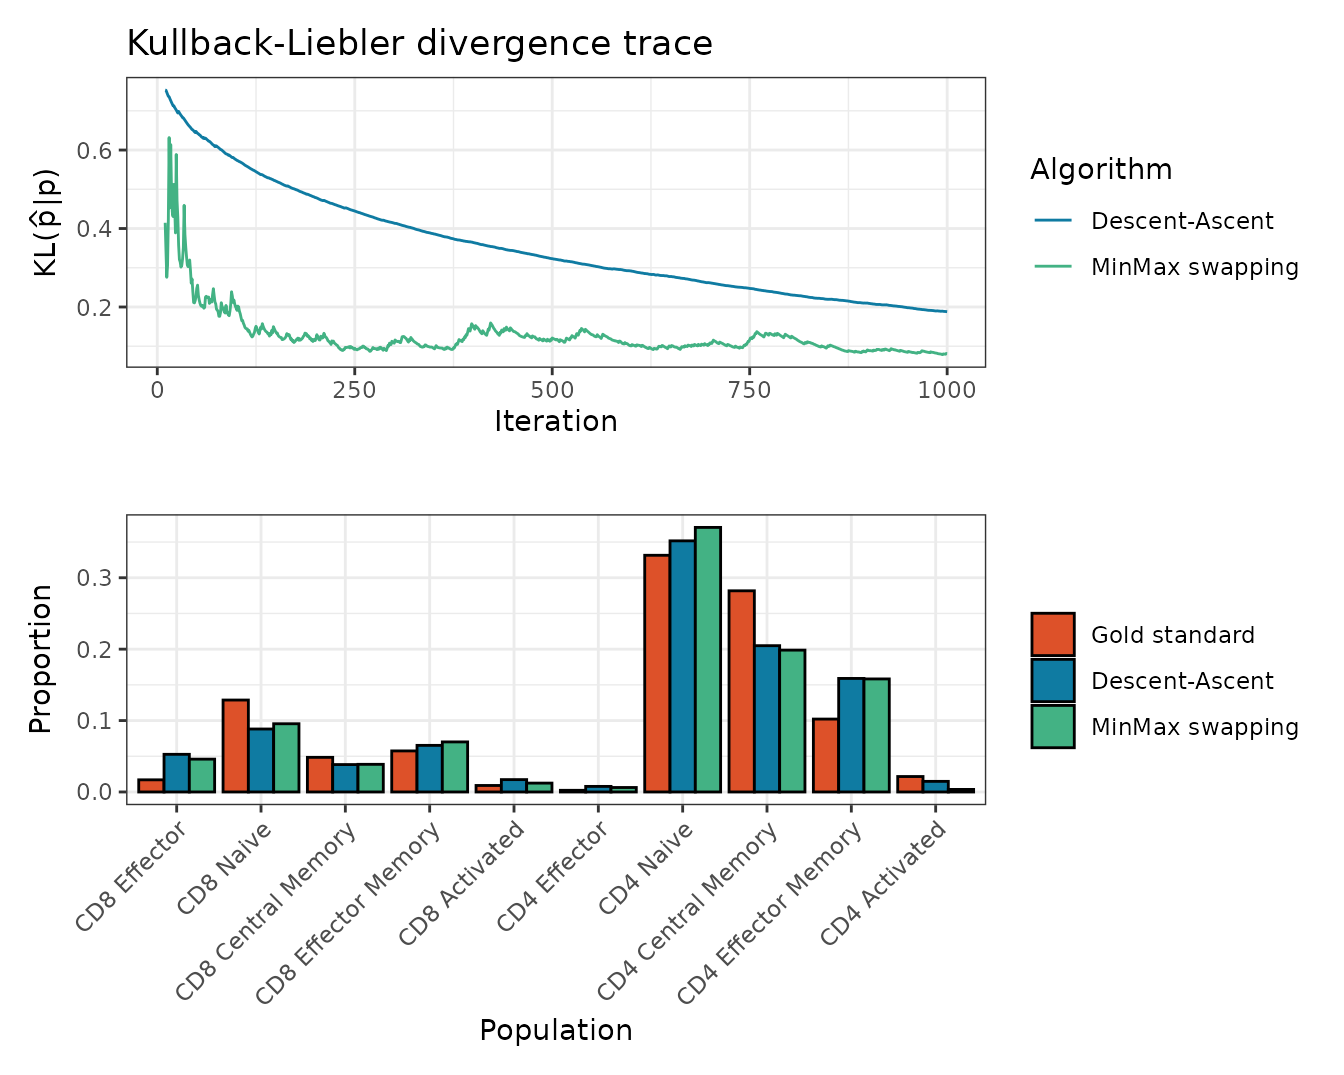
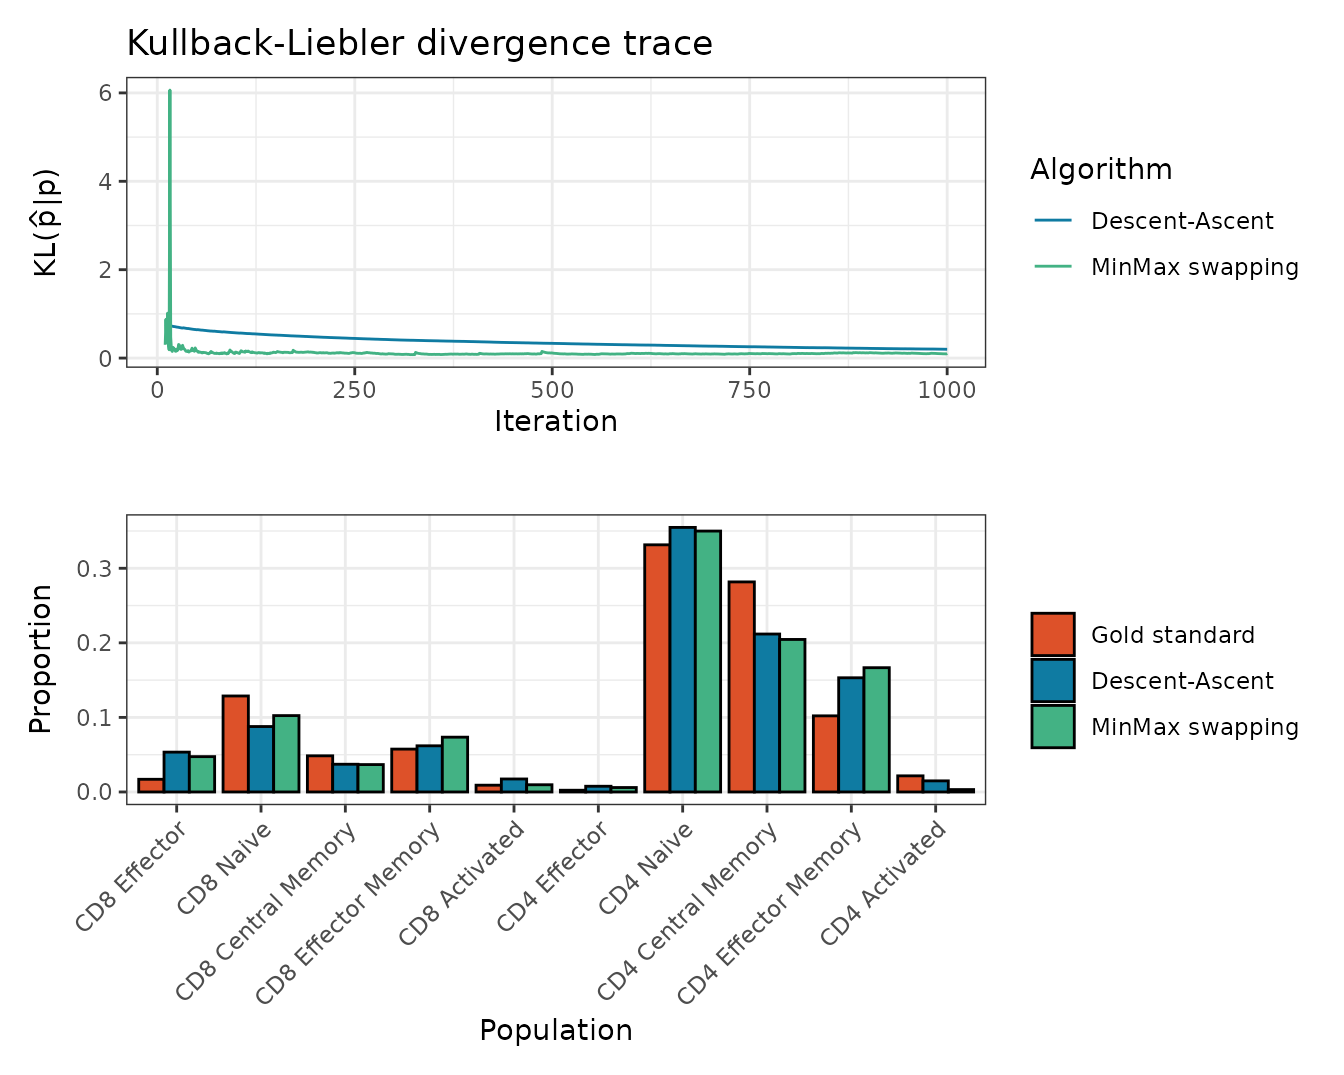
Deploying to gh-pages from @ sistm/CytOpT-R@cc976a611453f352bf184ed9226ddef589a037ff 🚀

diff --git a/articles/CytOpt_HIPC.html b/articles/CytOpt_HIPC.html
@@ -82,9 +82,9 @@ Jérémie Bigot, Kalidou BA, Boris Hejblum</h4>
 <span><span class="fu">py_numpy_available</span><span class="op">(</span><span class="op">)</span></span>
 <span><span class="co">#&gt; [1] TRUE</span></span>
 <span><span class="fu">py_module_available</span><span class="op">(</span><span class="st">"scipy"</span><span class="op">)</span></span>
-<span><span class="co">#&gt; [1] FALSE</span></span>
+<span><span class="co">#&gt; [1] TRUE</span></span>
 <span><span class="fu">py_module_available</span><span class="op">(</span><span class="st">"sklearn"</span><span class="op">)</span></span>
-<span><span class="co">#&gt; [1] FALSE</span></span></code></pre></div>
+<span><span class="co">#&gt; [1] TRUE</span></span></code></pre></div>
 <p><code>CytOpT</code> is a supervised method that directly estimates
 the cell proportions in a flow-cytometry data set by using a source
 gating as its input and relies on regularized optimal transport.</p>
@@ -118,6 +118,82 @@ the biological sample in question.</p>
 patient <em>1228</em> replicate <em>1A</em>:</p>
 <div class="sourceCode" id="cb3"><pre class="downlit sourceCode r">
 <code class="sourceCode R"><span><span class="fu">knitr</span><span class="fu">::</span><span class="fu"><a href="https://rdrr.io/pkg/knitr/man/kable.html" class="external-link">kable</a></span><span class="op">(</span><span class="fu"><a href="https://rdrr.io/r/utils/head.html" class="external-link">head</a></span><span class="op">(</span><span class="va">HIPC_Stanford_1228_1A</span><span class="op">)</span><span class="op">)</span></span></code></pre></div>
+<table style="width:100%;" class="table">
+<colgroup>
+<col width="15%">
+<col width="15%">
+<col width="13%">
+<col width="13%">
+<col width="15%">
+<col width="13%">
+<col width="13%">
+</colgroup>
+<thead><tr class="header">
+<th align="right">CCR7</th>
+<th align="right">CD4</th>
+<th align="right">CD45RA</th>
+<th align="right">CD3</th>
+<th align="right">HLADR</th>
+<th align="right">CD38</th>
+<th align="right">CD8</th>
+</tr></thead>
+<tbody>
+<tr class="odd">
+<td align="right">717.3339</td>
+<td align="right">1146.5768</td>
+<td align="right">3094.811</td>
+<td align="right">2526.265</td>
+<td align="right">1333.1118</td>
+<td align="right">1510.164</td>
+<td align="right">3203.711</td>
+</tr>
+<tr class="even">
+<td align="right">681.8582</td>
+<td align="right">1398.1466</td>
+<td align="right">3168.901</td>
+<td align="right">2394.297</td>
+<td align="right">918.4464</td>
+<td align="right">1306.356</td>
+<td align="right">3056.621</td>
+</tr>
+<tr class="odd">
+<td align="right">402.3024</td>
+<td align="right">920.2601</td>
+<td align="right">3440.265</td>
+<td align="right">2221.533</td>
+<td align="right">1585.4507</td>
+<td align="right">1086.020</td>
+<td align="right">2728.252</td>
+</tr>
+<tr class="even">
+<td align="right">1509.6527</td>
+<td align="right">1492.2483</td>
+<td align="right">3143.388</td>
+<td align="right">2592.564</td>
+<td align="right">1116.4272</td>
+<td align="right">1577.515</td>
+<td align="right">3191.382</td>
+</tr>
+<tr class="odd">
+<td align="right">1365.9507</td>
+<td align="right">659.6762</td>
+<td align="right">3382.406</td>
+<td align="right">2126.847</td>
+<td align="right">1317.9880</td>
+<td align="right">1277.266</td>
+<td align="right">3079.729</td>
+</tr>
+<tr class="even">
+<td align="right">1388.9562</td>
+<td align="right">1213.0846</td>
+<td align="right">3486.772</td>
+<td align="right">2450.046</td>
+<td align="right">1103.4678</td>
+<td align="right">1474.890</td>
+<td align="right">3200.576</td>
+</tr>
+</tbody>
+</table>
 <p>The manual clustering of these data into 10 cell populations (CD8
 Effector, CD8 Naive, CD8 Central Memory, CD8 Effector Memory, CD8
 Activated, CD4 Effector, CD4 Naive, CD4 Central Memory, CD4 Effector
@@ -150,7 +226,13 @@ compute those manual proportions with:</p>
 <span><span class="va">res</span> <span class="op">&lt;-</span> <span class="fu"><a href="../reference/CytOpT.html">CytOpT</a></span><span class="op">(</span>X_s <span class="op">=</span> <span class="va">HIPC_Stanford_1228_1A</span>, X_t <span class="op">=</span> <span class="va">HIPC_Stanford_1369_1A</span>, </span>
 <span>              Lab_source <span class="op">=</span> <span class="va">HIPC_Stanford_1228_1A_labels</span>,</span>
 <span>              theta_true <span class="op">=</span> <span class="va">gold_standard_manual_prop</span>,</span>
-<span>              method<span class="op">=</span><span class="st">'both'</span>, monitoring <span class="op">=</span> <span class="cn">TRUE</span><span class="op">)</span></span></code></pre></div>
+<span>              method<span class="op">=</span><span class="st">'both'</span>, monitoring <span class="op">=</span> <span class="cn">TRUE</span><span class="op">)</span></span>
+<span><span class="co">#&gt; Converting `X_s` from data.frame to matrix type</span></span>
+<span><span class="co">#&gt; Converting `X_t` from data.frame to matrix type</span></span>
+<span><span class="co">#&gt; Running Descent-ascent optimization...</span></span>
+<span><span class="co">#&gt; Done in 1.3 mins</span></span>
+<span><span class="co">#&gt; Running MinMax optimization...</span></span>
+<span><span class="co">#&gt; Done in 15.3 secs</span></span></code></pre></div>
 </div>
 <div class="section level4">
 <h4 id="results">Results<a class="anchor" aria-label="anchor" href="#results"></a>
@@ -158,11 +240,32 @@ compute those manual proportions with:</p>
 <p>The results from <code>CytOpt</code> for both optimization algorithms
 are:</p>
 <div class="sourceCode" id="cb6"><pre class="downlit sourceCode r">
-<code class="sourceCode R"><span><span class="fu"><a href="https://rdrr.io/r/base/summary.html" class="external-link">summary</a></span><span class="op">(</span><span class="va">res</span><span class="op">)</span></span></code></pre></div>
+<code class="sourceCode R"><span><span class="fu"><a href="https://rdrr.io/r/base/summary.html" class="external-link">summary</a></span><span class="op">(</span><span class="va">res</span><span class="op">)</span></span>
+<span><span class="co">#&gt; Estimation of cell proportions with Descent-Ascent and MinMax swapping from CytOpt:</span></span>
+<span><span class="co">#&gt;                     Gold_standard Descent_ascent      MinMax</span></span>
+<span><span class="co">#&gt; CD8 Effector          0.017004001    0.053429574 0.047389049</span></span>
+<span><span class="co">#&gt; CD8 Naive             0.128736173    0.087750063 0.102417962</span></span>
+<span><span class="co">#&gt; CD8 Central Memory    0.048481996    0.037180521 0.036738892</span></span>
+<span><span class="co">#&gt; CD8 Effector Memory   0.057484114    0.061909567 0.073484699</span></span>
+<span><span class="co">#&gt; CD8 Activated         0.009090374    0.017418780 0.009680935</span></span>
+<span><span class="co">#&gt; CD4 Effector          0.002324076    0.007661281 0.005956046</span></span>
+<span><span class="co">#&gt; CD4 Naive             0.331460344    0.354807899 0.349907153</span></span>
+<span><span class="co">#&gt; CD4 Central Memory    0.281713344    0.211813105 0.204547782</span></span>
+<span><span class="co">#&gt; CD4 Effector Memory   0.102082843    0.153137050 0.166662670</span></span>
+<span><span class="co">#&gt; CD4 Activated         0.021622735    0.014892161 0.003214812</span></span>
+<span><span class="co">#&gt; </span></span>
+<span><span class="co">#&gt; Final Kullback-Leibler divergences:</span></span>
+<span><span class="co">#&gt;  Descent-Ascent MinMax swapping </span></span>
+<span><span class="co">#&gt;      0.06302677      0.06826401 </span></span>
+<span><span class="co">#&gt; Number of iterations:</span></span>
+<span><span class="co">#&gt;  Descent-Ascent MinMax swapping </span></span>
+<span><span class="co">#&gt;            5000           10000</span></span></code></pre></div>
 <p>Some visualizations are provided by the <code><a href="https://rdrr.io/r/graphics/plot.default.html" class="external-link">plot()</a></code>
 method:</p>
 <div class="sourceCode" id="cb7"><pre class="downlit sourceCode r">
-<code class="sourceCode R"><span><span class="fu"><a href="https://rdrr.io/r/graphics/plot.default.html" class="external-link">plot</a></span><span class="op">(</span><span class="va">res</span><span class="op">)</span></span></code></pre></div>
+<code class="sourceCode R"><span><span class="fu"><a href="https://rdrr.io/r/graphics/plot.default.html" class="external-link">plot</a></span><span class="op">(</span><span class="va">res</span><span class="op">)</span></span>
+<span><span class="co">#&gt; Plotting KL divergence for iterations 10 to 1000 while there were at least 5000 iterations performed for each method.</span></span></code></pre></div>
+<p><img src="CytOpt_HIPC_files/figure-html/plots-1.png" width="672"></p>
 </div>
 <div class="section level4">
 <h4 id="performance-evaluation">Performance evaluation<a class="anchor" aria-label="anchor" href="#performance-evaluation"></a>
@@ -172,6 +275,7 @@ method:</p>
 Bland-Altman plots:</p>
 <div class="sourceCode" id="cb8"><pre class="downlit sourceCode r">
 <code class="sourceCode R"><span><span class="fu"><a href="../reference/Bland_Altman.html">Bland_Altman</a></span><span class="op">(</span><span class="va">res</span><span class="op">$</span><span class="va">proportions</span><span class="op">)</span></span></code></pre></div>
+<p><img src="CytOpt_HIPC_files/figure-html/BA-1.png" width="672"></p>
 <hr>
 <p>The methods implemented in the <code>CytOpt</code> package are
 detailed in the following article:</p>
